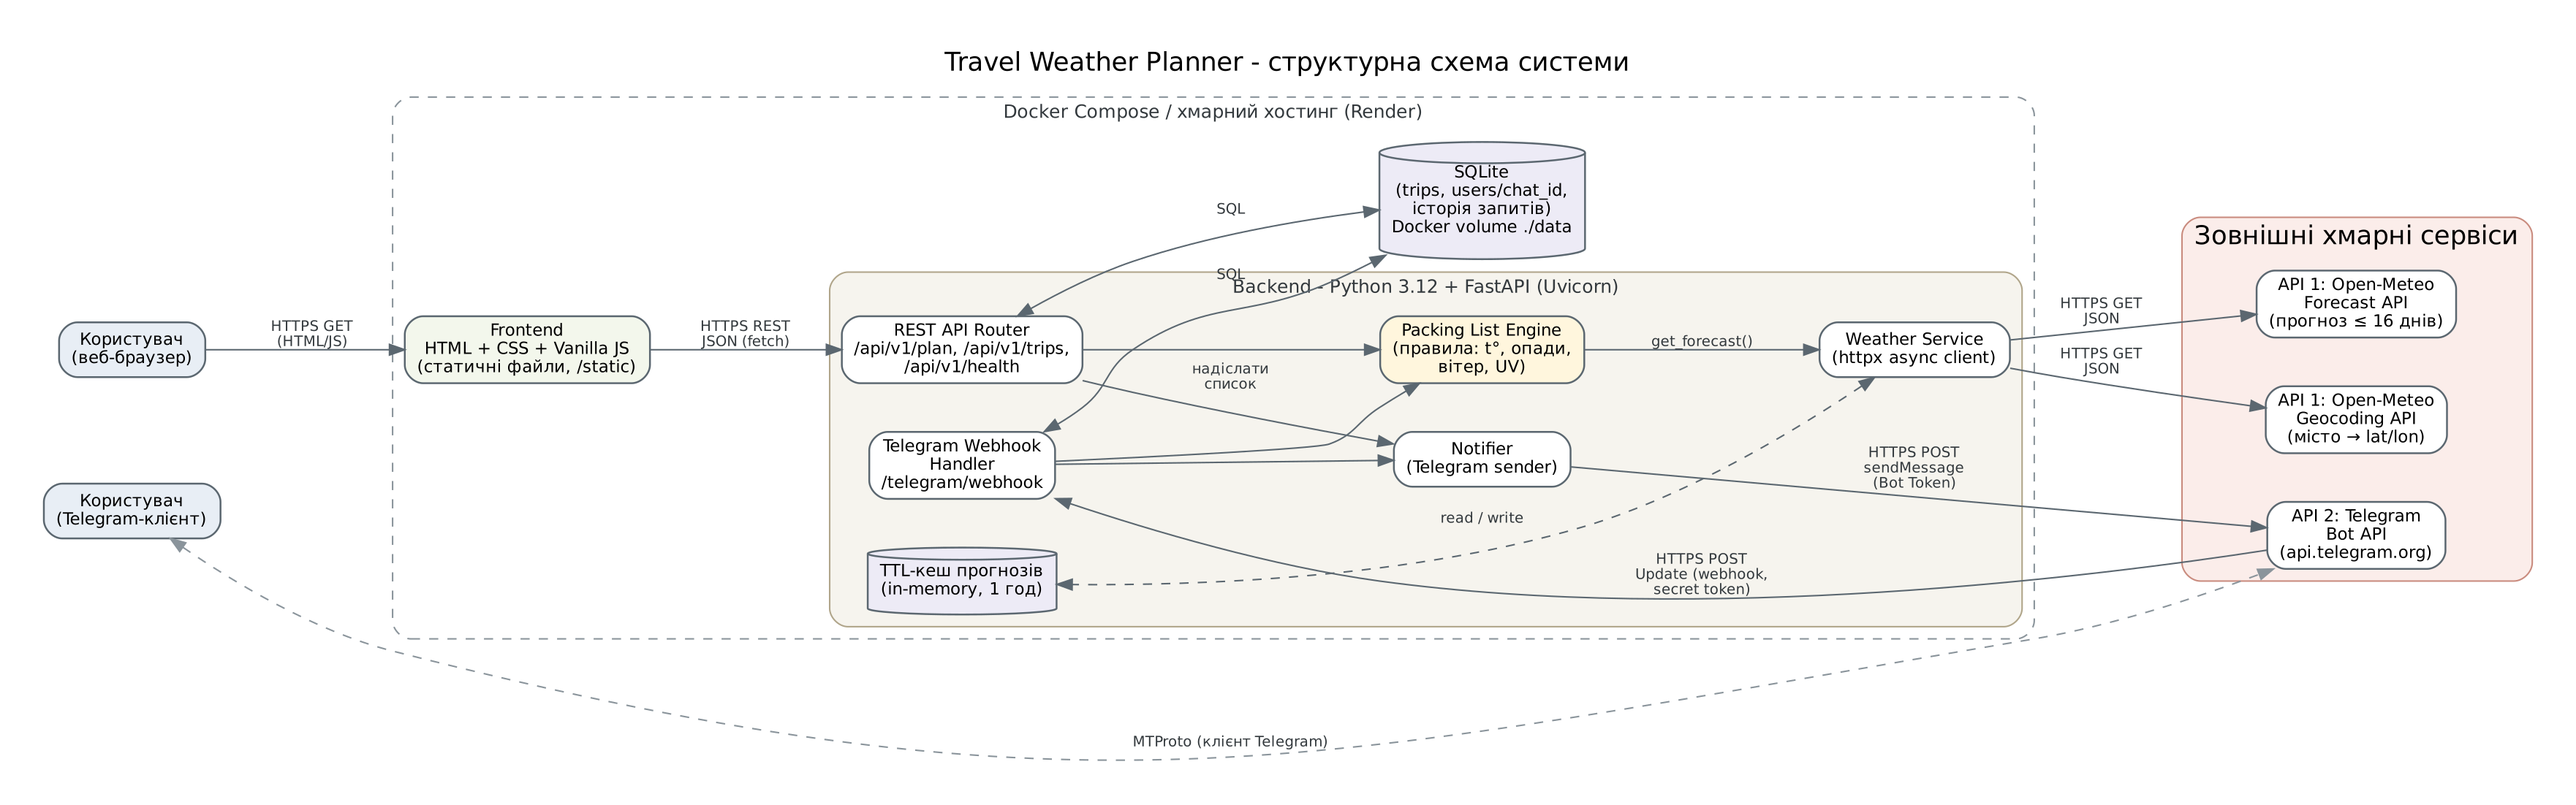
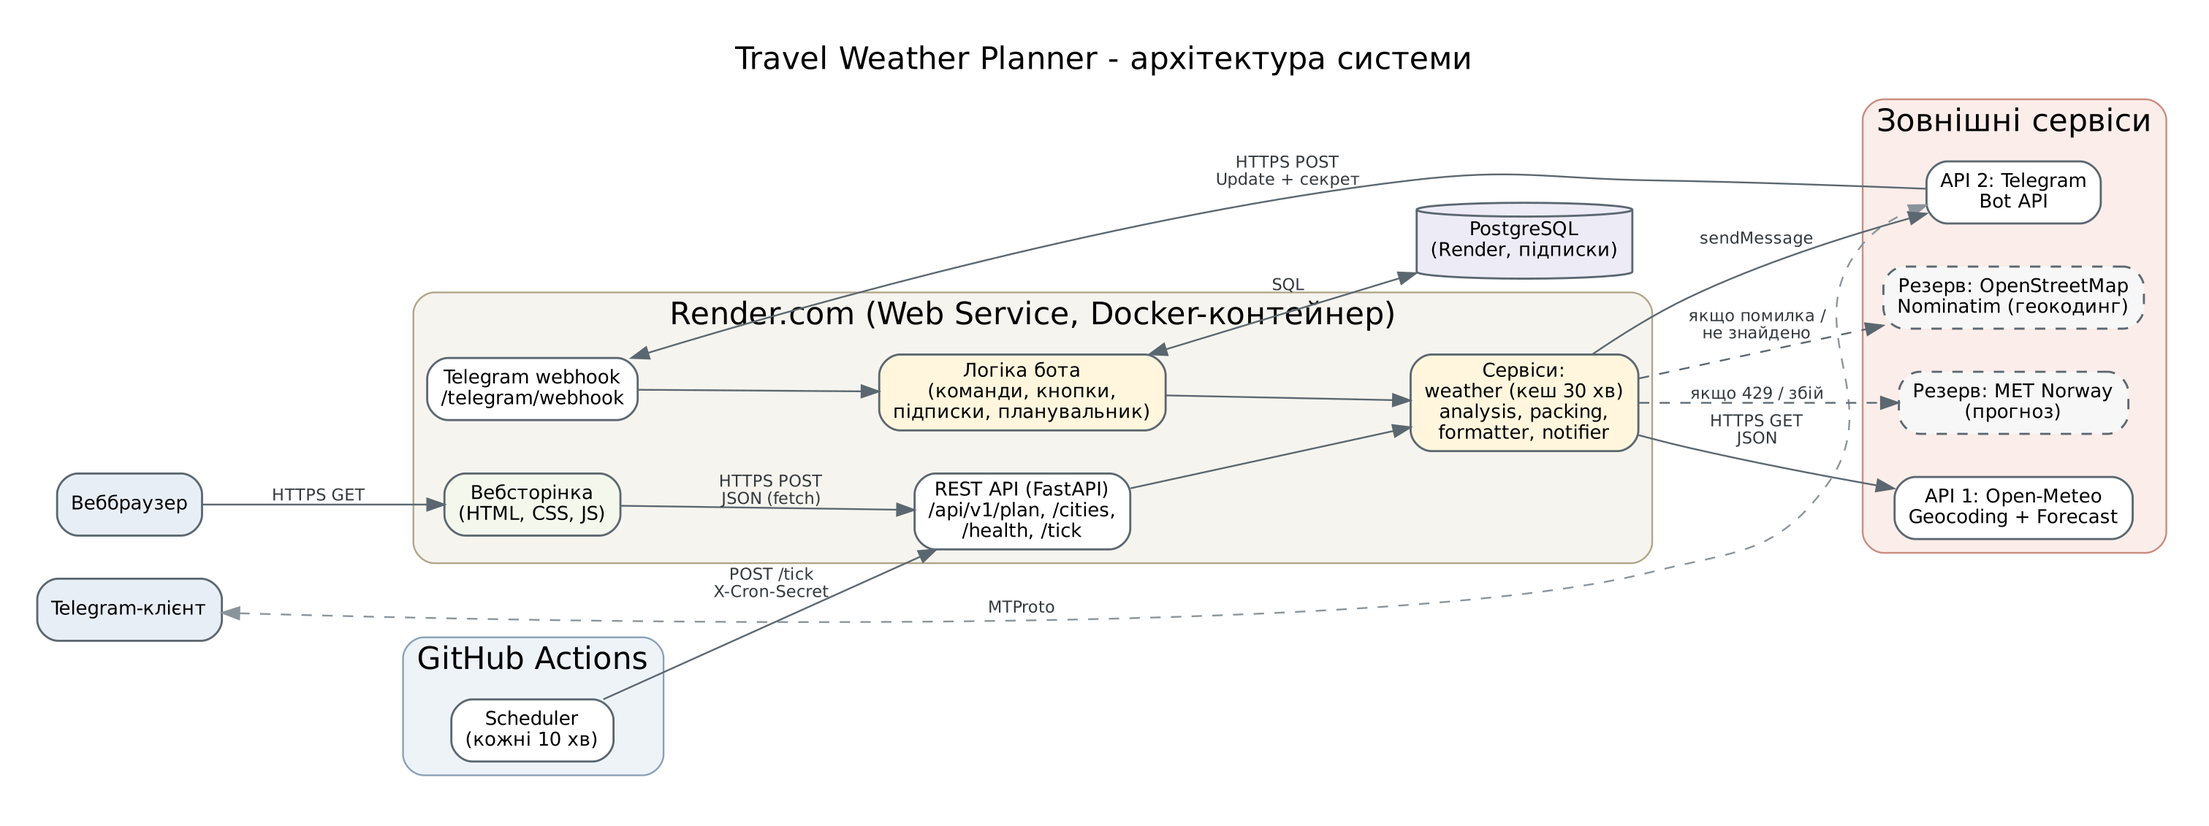
День 5: надійніша щоденна розсилка (запас часу при затримці планувальника)

diff --git a/app/bot/logic.py b/app/bot/logic.py
@@ -16,6 +16,7 @@ from app.services.simulation import DEMO_CITY, SCENARIOS, scenario_forecast
 from app.storage import Subscription, SubscriptionStorage
 
 log = logging.getLogger("bot")
+CATCH_UP_HOURS = 3
 
 HELP_TEXT = (
     "Я - Travel Weather Planner 🧳\n"
@@ -285,7 +286,7 @@ class WeatherBot:
         elif not sub:
             await self.api.send(chat_id, "Підписки немає. Налаштуйте: /subscribe")
         elif value == "now":
-            await self._send_morning(sub)
+            await self._send_today(chat_id, sub.city, "🌤 Погода на сьогодні")
         elif value == "city":
             self.state[chat_id] = {"step": "sub_city"}
             await self.api.send(chat_id, "🏙 Напишіть нове місто.")
@@ -312,9 +313,8 @@ class WeatherBot:
         if has_severe(alerts):
             await self.api.send(chat_id, format_alert_message(DEMO_CITY, alerts))
 
-    async def _send_morning(self, sub: Subscription) -> None:
+    async def _send_morning(self, sub: Subscription, today: date) -> None:
         alerts = await self._send_today(sub.chat_id, sub.city, greeting(sub.hour))
-        today = self.today()
         self.storage.mark_sent(sub.chat_id, today)
         if has_severe(alerts):
             self.storage.mark_alerted(sub.chat_id, today)
@@ -327,9 +327,10 @@ class WeatherBot:
 
         for sub in self.storage.all():
             try:
-                if local.hour == sub.hour and sub.last_sent != today:
+                # GitHub Actions може пропустити запуск, тому є запас у кілька годин
+                if sub.hour <= local.hour < sub.hour + CATCH_UP_HOURS and sub.last_sent != today:
                     log.info("розсилка: chat %s (%s)", sub.chat_id, sub.city.name)
-                    await self._send_morning(sub)
+                    await self._send_morning(sub, today)
                 elif watch_due and sub.last_alert != today and 6 <= local.hour <= 21:
                     days = await self._forecast(sub.city, today, today)
                     alerts = build_alerts(days)

diff --git a/tests/test_bot.py b/tests/test_bot.py
@@ -154,6 +154,28 @@ def test_scheduler_not_at_other_hour(setup):
     assert not any("Доброго ранку" in t for _, t, _ in api.sent)
 
 
+def test_scheduler_catches_up_missed_hour(setup):
+    bot, api, storage = setup
+    storage.upsert(1, KYIV, hour=7)
+    run(bot.tick(datetime(2026, 10, 15, 5, 40, tzinfo=timezone.utc)))
+    assert sum("Доброго ранку" in t for _, t, _ in api.sent) == 1
+
+
+def test_send_now_does_not_cancel_morning(setup):
+    bot, api, storage = setup
+    storage.upsert(1, KYIV, hour=7)
+    run(bot.handle_update(press("sub:now")))
+    run(bot.tick(datetime(2026, 10, 15, 4, 5, tzinfo=timezone.utc)))
+    assert sum("Доброго ранку" in t for _, t, _ in api.sent) == 1
+
+
+def test_scheduler_no_morning_too_late(setup):
+    bot, api, storage = setup
+    storage.upsert(1, KYIV, hour=7)
+    run(bot.tick(datetime(2026, 10, 15, 9, 0, tzinfo=timezone.utc)))
+    assert not any("Доброго ранку" in t for _, t, _ in api.sent)
+
+
 def test_scheduler_storm_warning_once():
     api = FakeApi()
     storage = SubscriptionStorage(":memory:")
